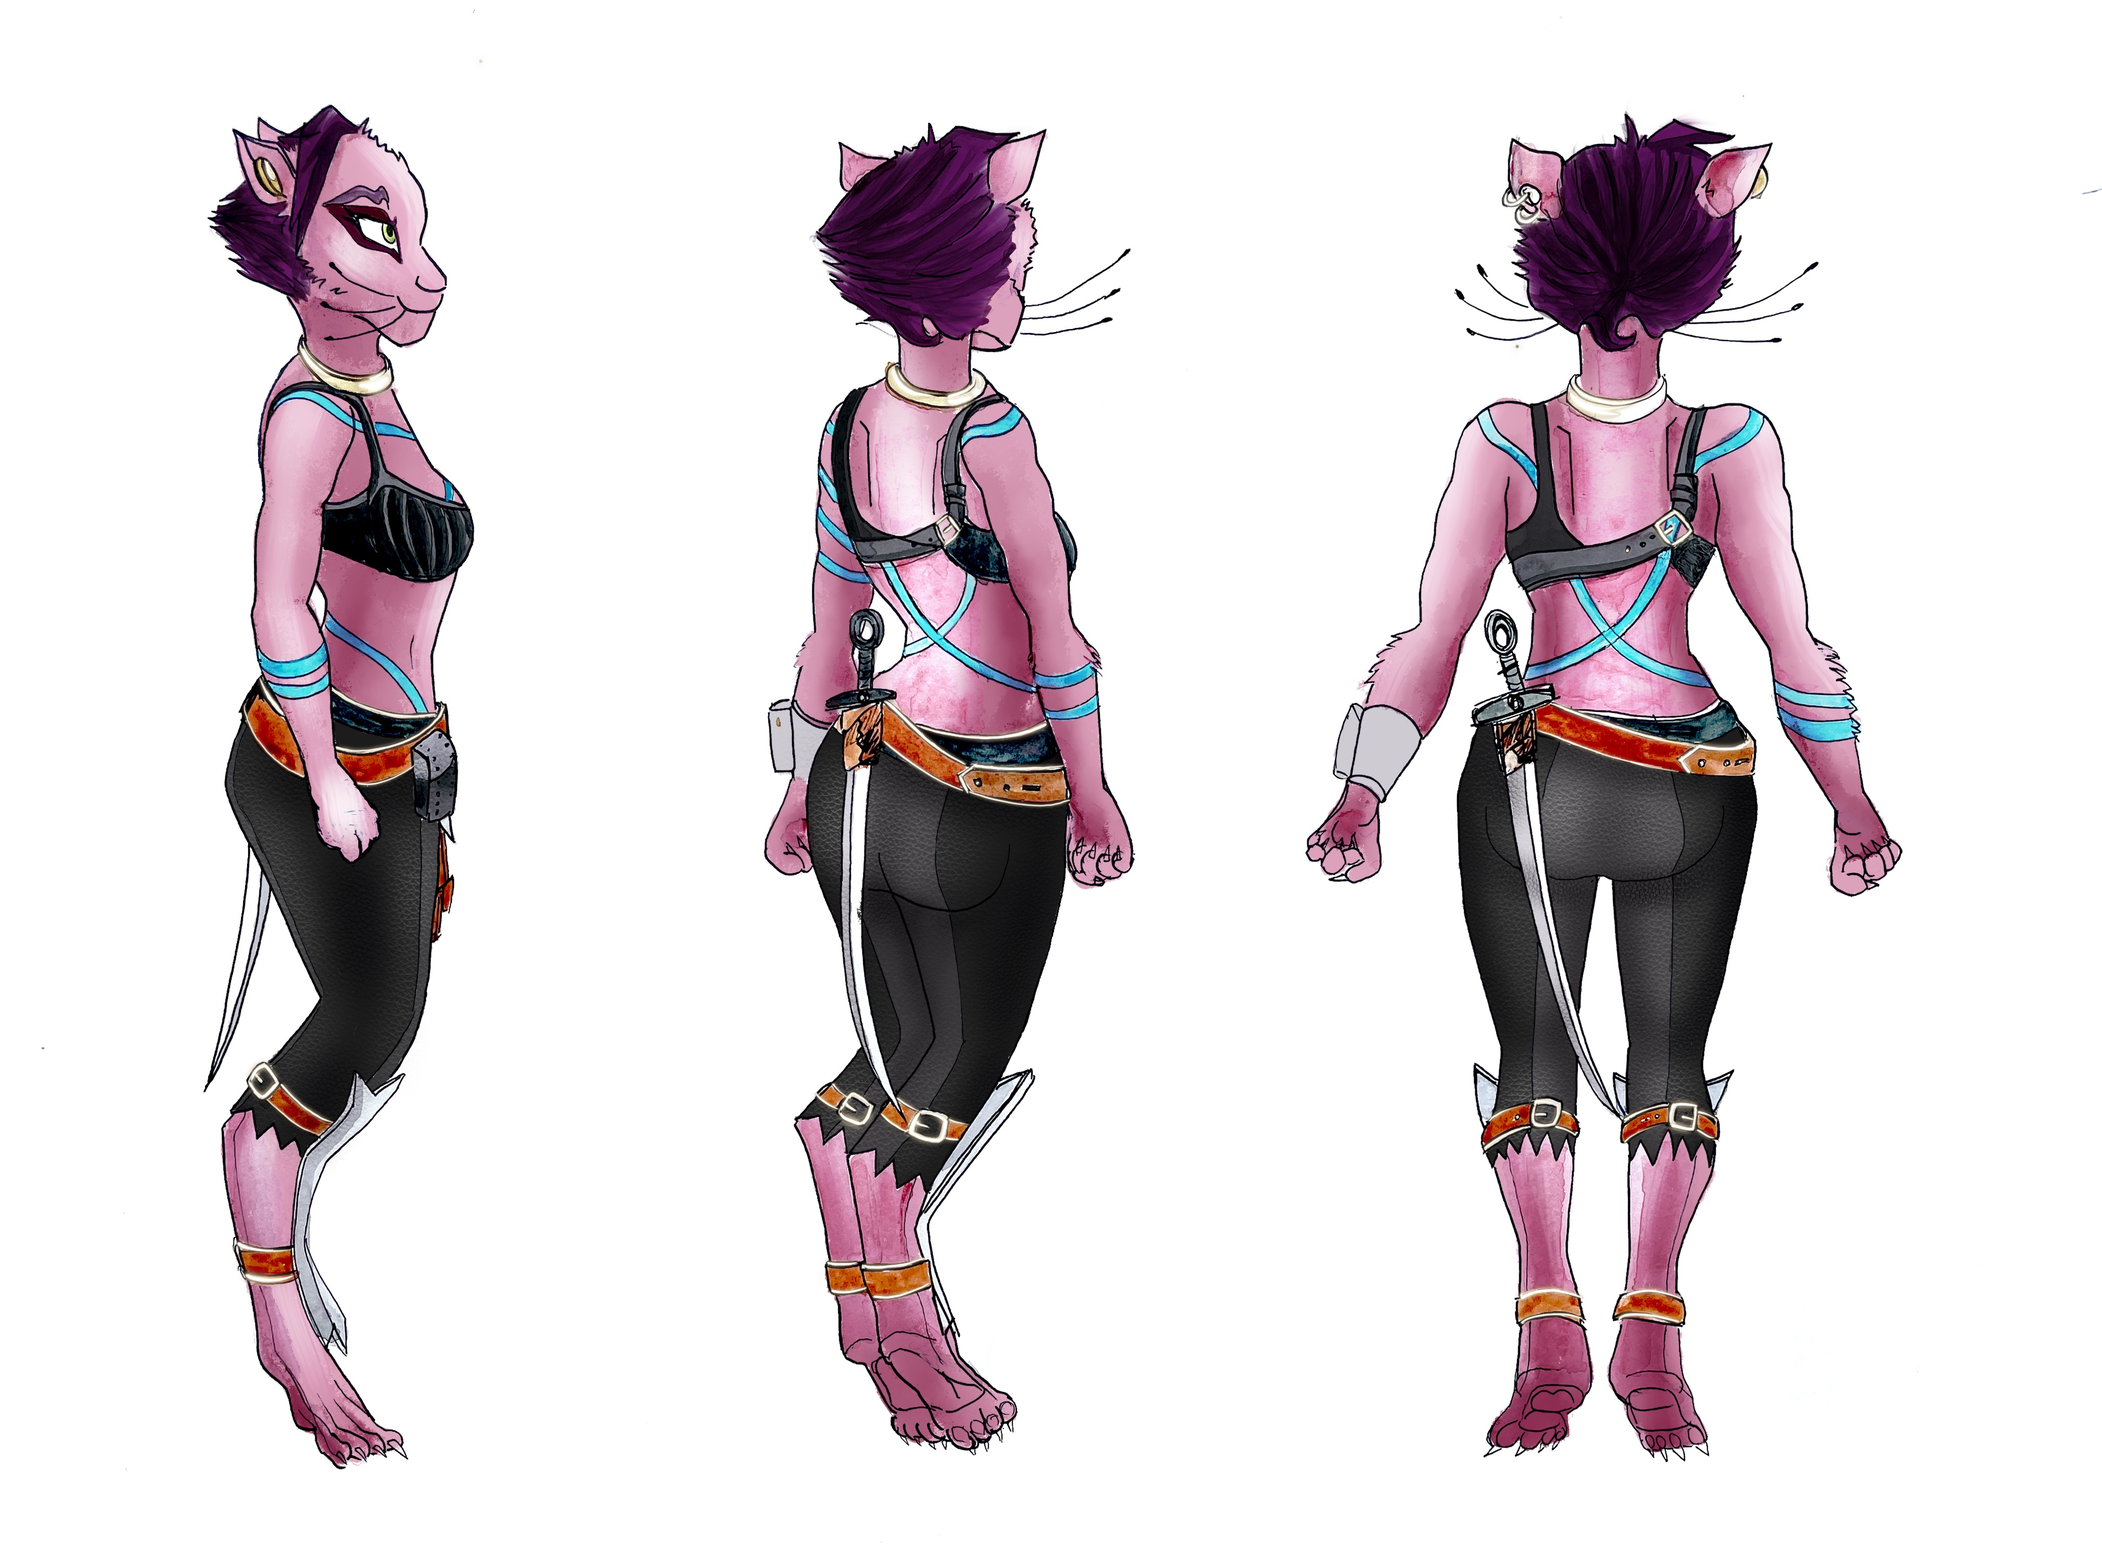
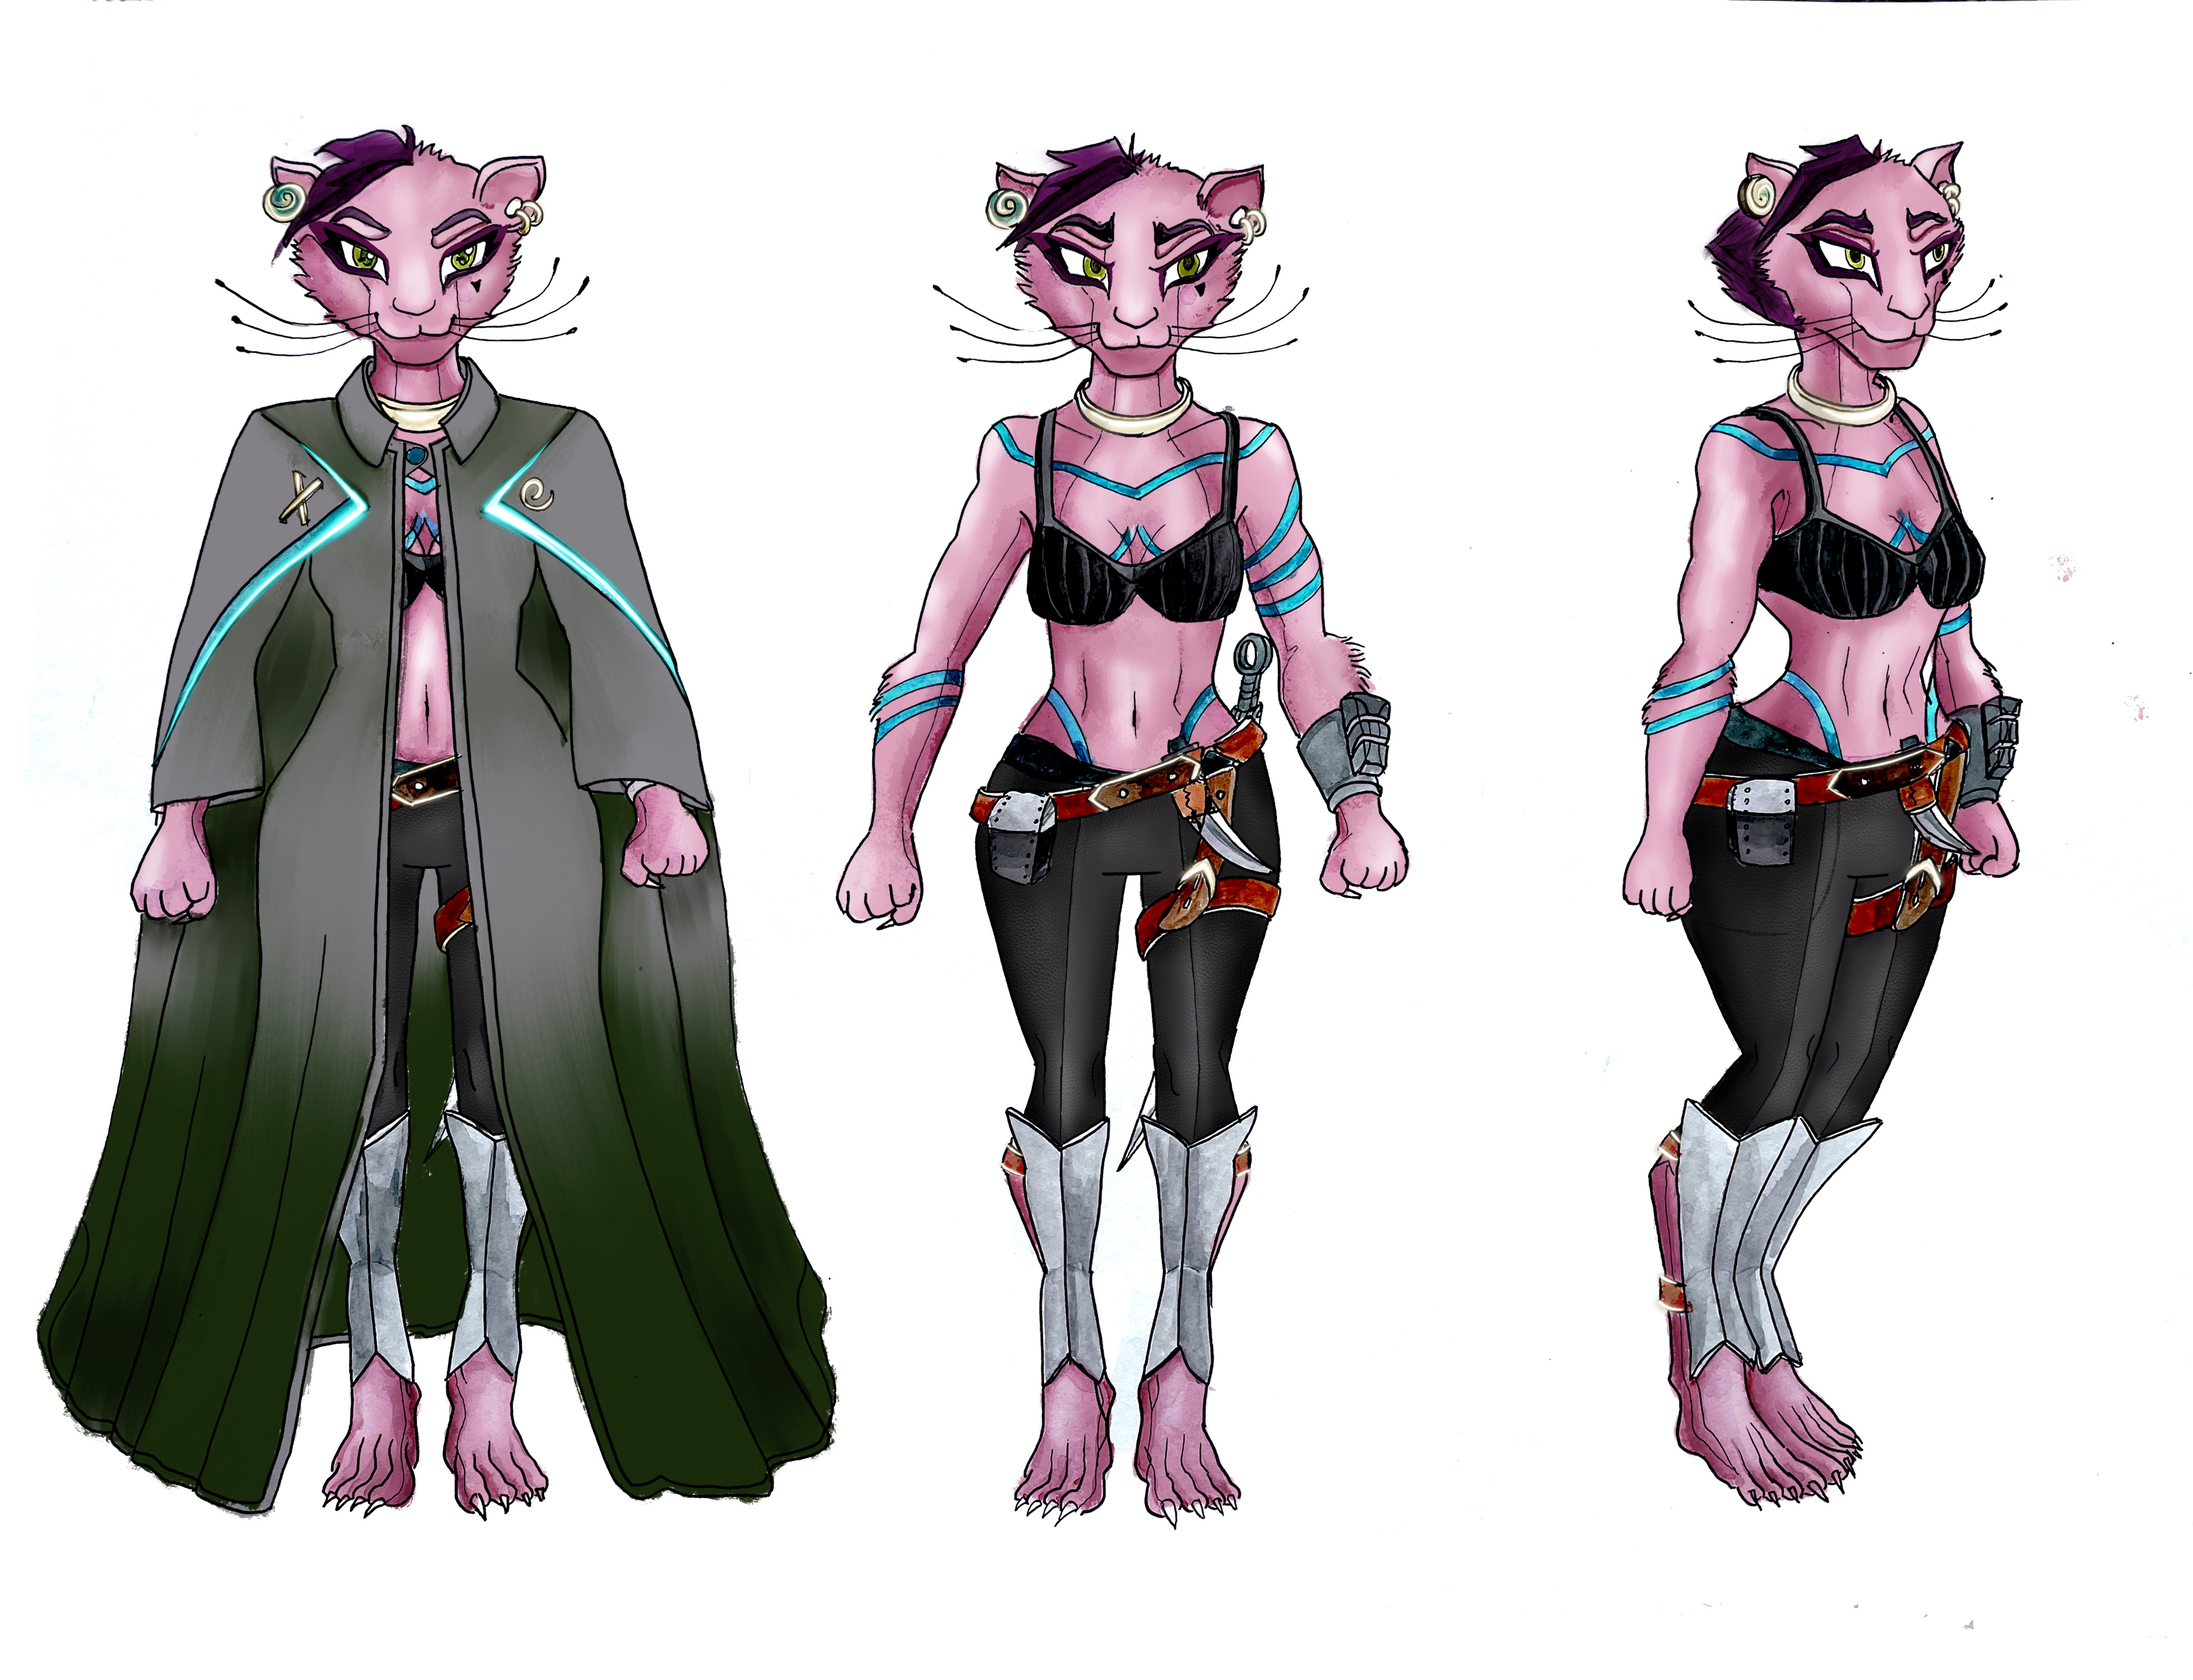
c

diff --git a/index.html b/index.html
@@ -128,7 +128,7 @@
     </div>
     
     <div class="grid-item">
-      <img class="img-responsive" alt="" src="./assets/Almighty Push v1/AlmightyPushv2logo.png">
+      <img class="img-responsive" alt="" src="./assets/Almighty Push v1/AlmightyPushv2logo.jpg">
       <a href="./AmightyPushv1.html" class="project-description">
         <div class="project-text-holder">
           <div class="project-text-inner">

diff --git a/FelineReflections.html b/FelineReflections.html
@@ -87,10 +87,10 @@
       <div class="row">
       </div>
     <div class="section-container-spacer">
-      <p><img class="img-responsive" alt="" src="./assets/Feline Reflections/1.1.jpg"></p>
+      <p><img class="img-responsive" alt="" src="./assets/Feline Reflections/1.2.jpg"></p>
       <div class="row">
         </div>
-        
+
 
         <p>Character design
         The Cat minister
